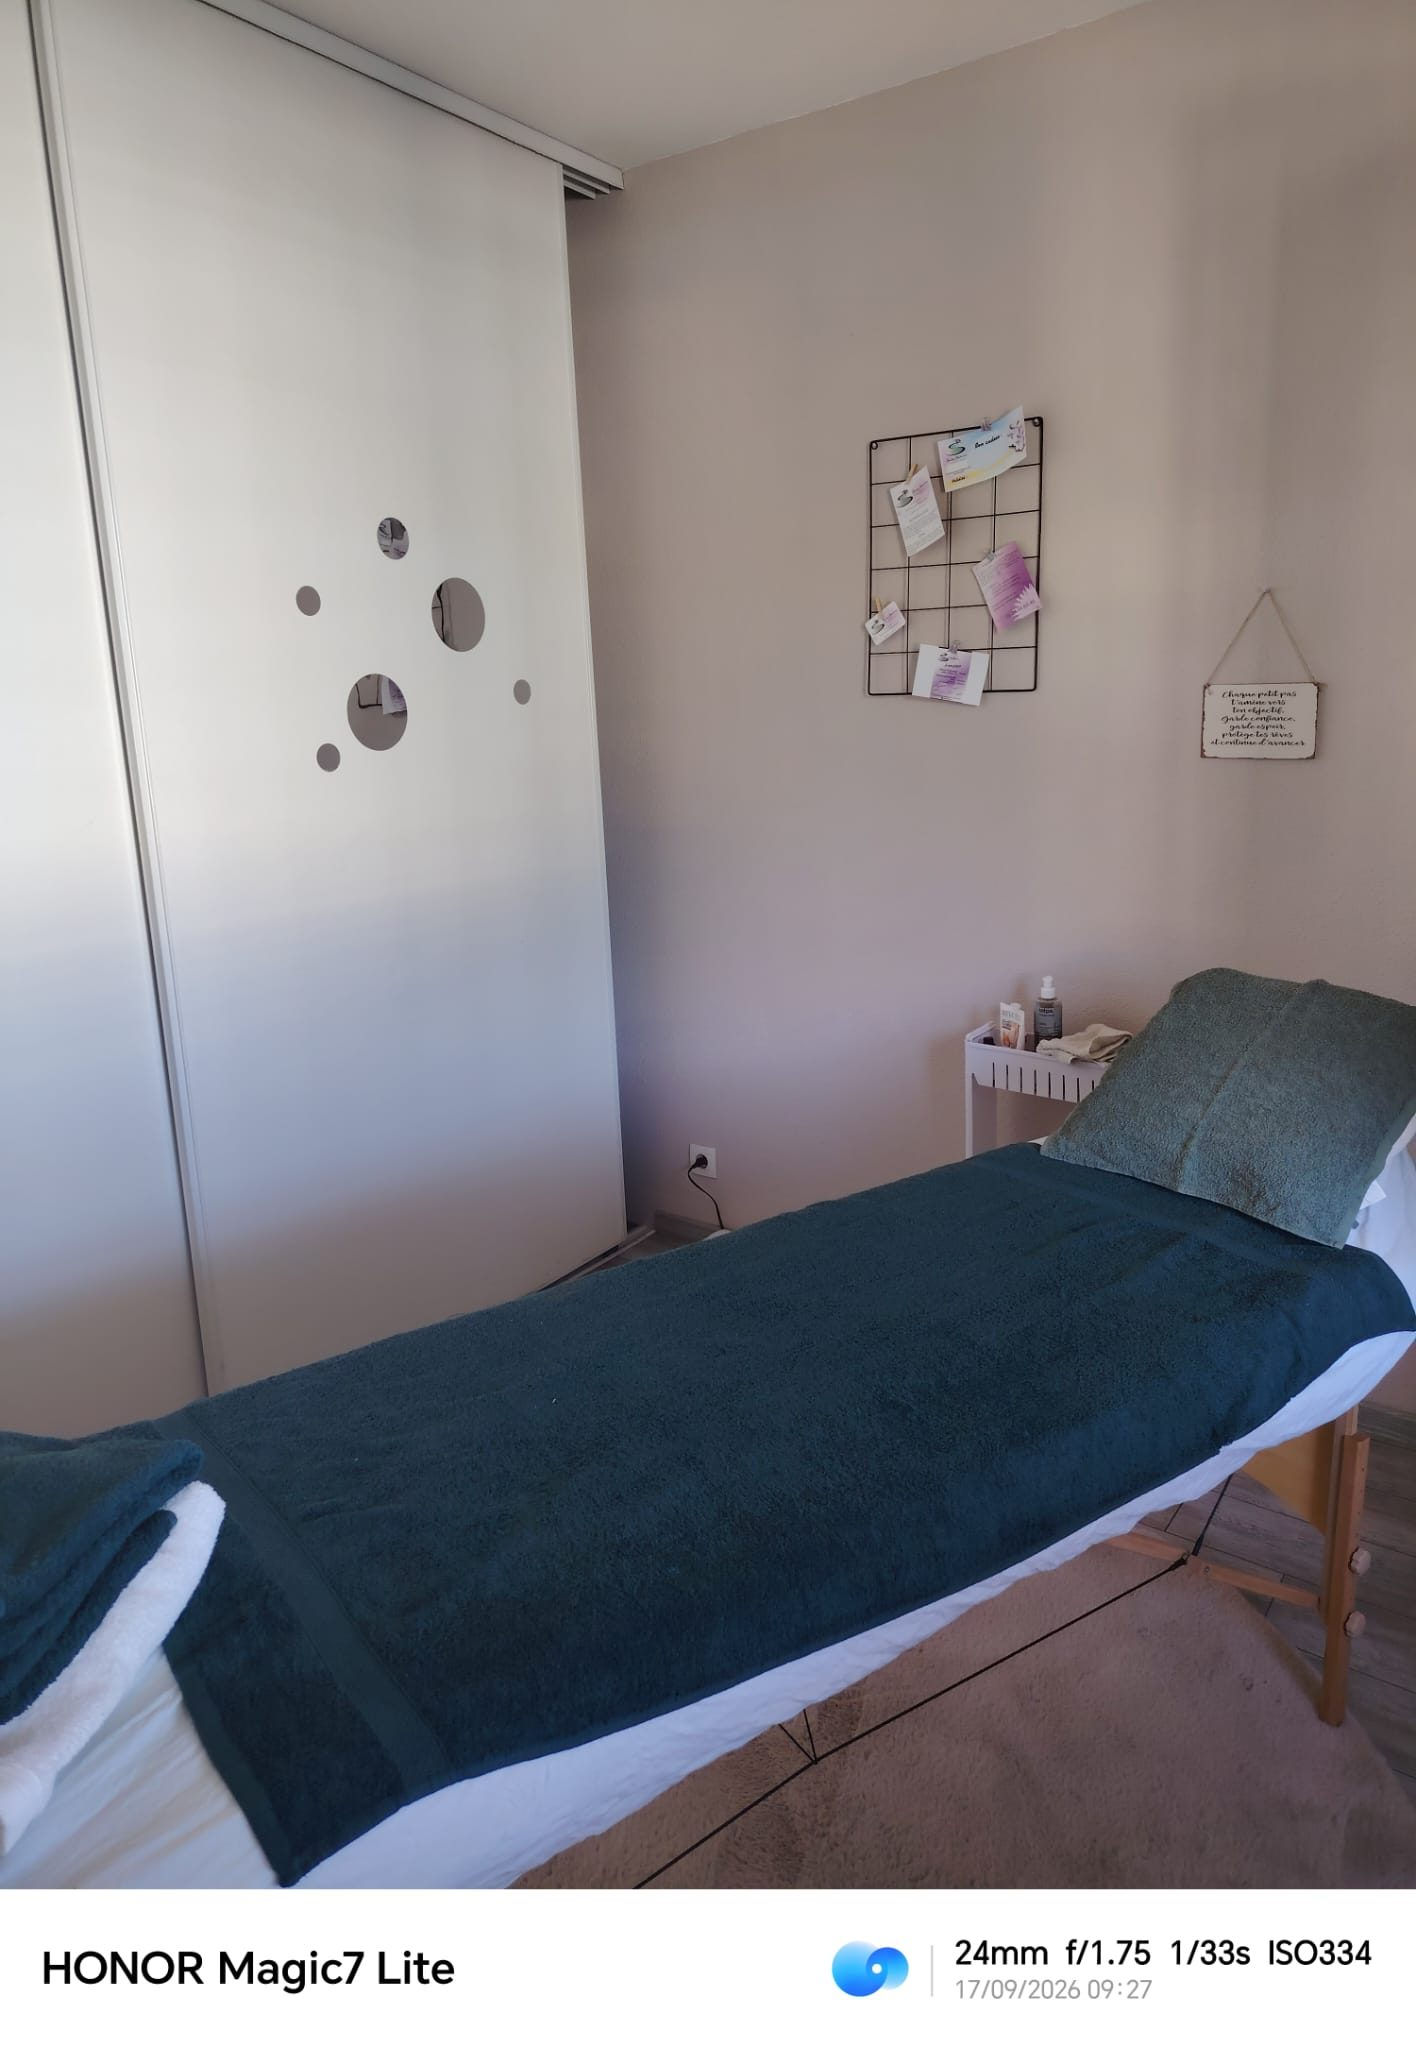
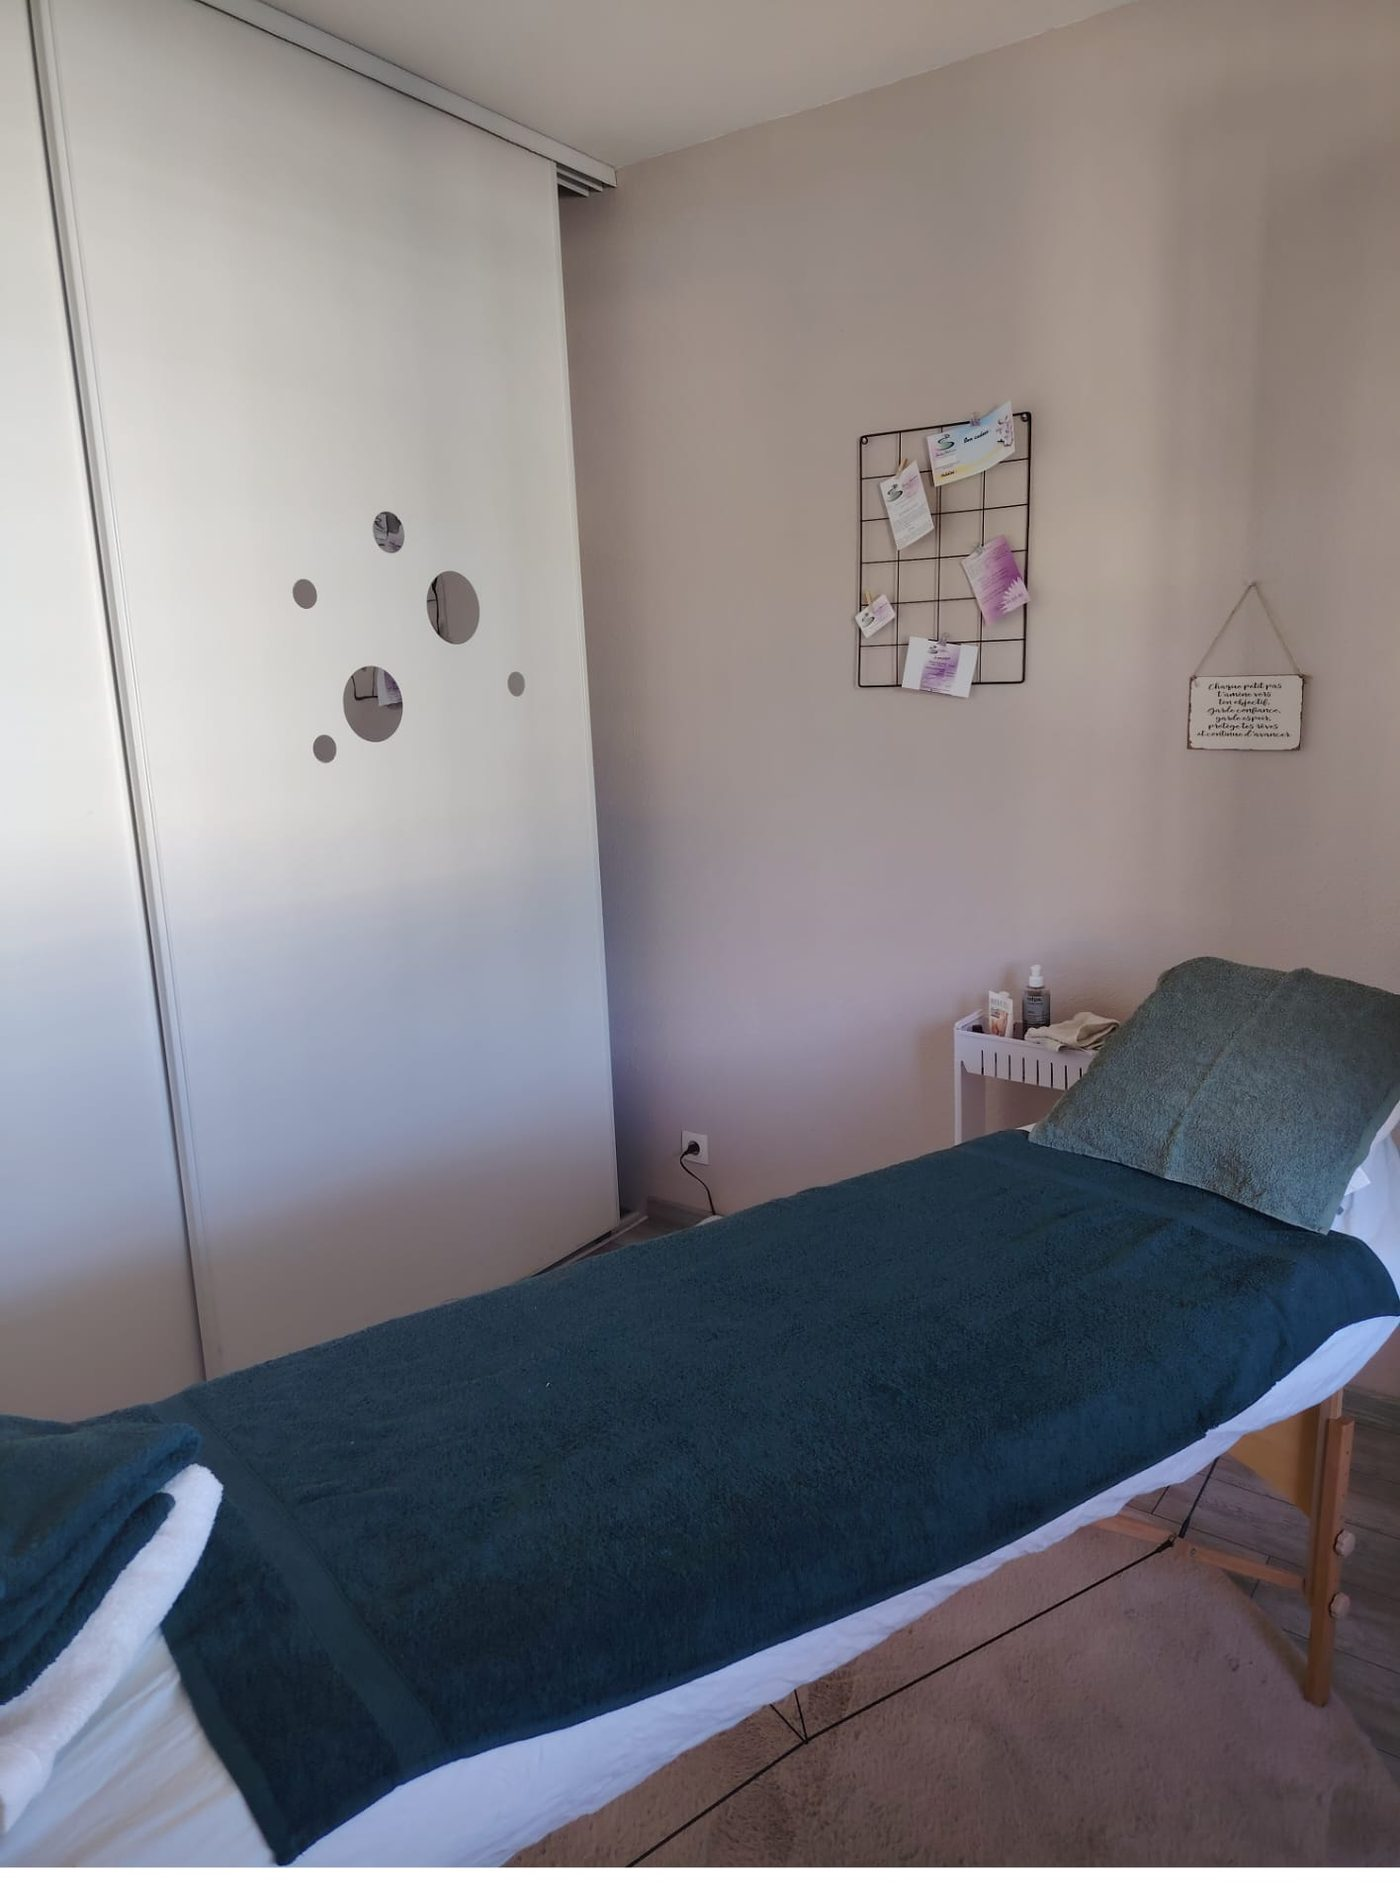
feat: tidy portrait, recover flyer content, optimize mobile
- Re-crop profile photo inside the flyer's ring (no more double ring /
  bleed) + gentle sharpen/contrast
- Remove HONOR camera watermark bar from all cabinet photos
- Add trust strip recovered from flyer (3 engagements) + 'votre bien-etre
  commence aujourd'hui' microcopy
- Mobile: fix nav menu closed-state peek, stack trust strip, de-tilt hero
  image, full-width hero buttons, tighter spacing

diff --git a/styles.css b/styles.css
@@ -136,6 +136,14 @@ h3 { font-size: 1.4rem; }
 .hero-badge strong { display: block; color: var(--purple-deep); font-family: var(--ff-head); font-size: 1.15rem; line-height: 1.1; }
 .hero-badge span { font-size: .72rem; color: var(--ink-soft); }
 
+/* ============ TRUST STRIP ============ */
+.trust { background: var(--bg-alt); border-block: 1px solid var(--line); }
+.trust-inner { display: grid; grid-template-columns: repeat(3, 1fr); gap: 1rem; padding: 1.6rem 0; }
+.trust-item { display: flex; align-items: center; gap: .8rem; justify-content: center; }
+.trust-ic { font-size: 1.7rem; line-height: 1; }
+.trust-item p { margin: 0; font-size: .95rem; color: var(--ink-soft); line-height: 1.35; }
+.trust-item strong { color: var(--ink); font-weight: 700; }
+
 /* ============ SECTIONS ============ */
 .section { padding: clamp(3rem, 7vw, 5.5rem) 0; }
 .section-alt { background: var(--bg-alt); }
@@ -242,6 +250,7 @@ a.contact-item:hover { transform: translateY(-4px); }
 @media (max-width: 900px) {
   .hero-inner { grid-template-columns: 1fr; gap: 2.5rem; }
   .hero-media { max-width: 420px; margin-inline: auto; order: -1; }
+  .hero-media img { rotate: 0deg; height: clamp(300px, 52vh, 460px); }
   .lead { max-width: none; }
   .cards { grid-template-columns: repeat(2, 1fr); }
   .about { grid-template-columns: 1fr; gap: 2rem; text-align: center; }
@@ -257,10 +266,13 @@ a.contact-item:hover { transform: translateY(-4px); }
     position: absolute; top: 100%; right: 0; left: 0;
     flex-direction: column; align-items: stretch; gap: 0;
     background: var(--surface); border-bottom: 1px solid var(--line);
-    padding: .5rem 1.25rem 1.25rem; box-shadow: var(--shadow);
-    max-height: 0; overflow: hidden; transition: max-height .3s ease, padding .3s ease; padding-top: 0;
+    padding: 0 1.25rem; box-shadow: var(--shadow);
+    max-height: 0; overflow: hidden; transition: max-height .3s ease, padding .3s ease;
   }
-  .nav-menu.open { max-height: 420px; padding-top: .5rem; }
+  .nav-menu.open { max-height: 420px; padding: .5rem 1.25rem 1.25rem; }
+  .nav-menu li { border-top: 1px solid var(--line); }
+  .nav-menu li:first-child { border-top: 0; }
+  .nav-menu a { display: block; padding: .55rem 0; }
   .nav-menu li { padding: .3rem 0; }
   .nav-cta { margin-top: .4rem; text-align: center; }
   .nav-toggle[aria-expanded="true"] span:nth-child(1) { transform: translateY(7.5px) rotate(45deg); }
@@ -268,11 +280,22 @@ a.contact-item:hover { transform: translateY(-4px); }
   .nav-toggle[aria-expanded="true"] span:nth-child(3) { transform: translateY(-7.5px) rotate(-45deg); }
   .fab { display: inline-block; }
 }
+@media (max-width: 700px) {
+  .trust-inner { grid-template-columns: 1fr; gap: .5rem; padding: 1.3rem 0; }
+  .trust-item { justify-content: flex-start; max-width: 320px; margin-inline: auto; width: 100%; }
+}
 @media (max-width: 560px) {
   .cards { grid-template-columns: 1fr; }
   .gallery { grid-template-columns: 1fr 1fr; }
-  .gallery img { height: 220px; }
+  .gallery img { height: 200px; }
   .brand-tagline { display: none; }
+  .container { width: min(100% - 2rem, var(--wrap)); }
+  h1 { font-size: clamp(2.1rem, 8.5vw, 2.8rem); }
+  .lead { font-size: 1.05rem; }
+  .hero-actions { flex-direction: column; align-items: stretch; }
+  .hero-actions .btn { width: 100%; }
+  .hero-badge { left: 0; bottom: -14px; padding: .6rem .9rem; }
+  .fab { bottom: 14px; right: 14px; padding: .7rem 1.05rem; font-size: .9rem; }
 }
 
 @media (prefers-reduced-motion: reduce) {

diff --git a/index.html b/index.html
@@ -114,6 +114,24 @@
       </div>
     </section>
 
+    <!-- ============ TRUST STRIP ============ -->
+    <section class="trust" aria-label="Engagements">
+      <div class="container trust-inner">
+        <div class="trust-item">
+          <span class="trust-ic" aria-hidden="true">🌸</span>
+          <p><strong>Bien-être global</strong><br />et personnalisé</p>
+        </div>
+        <div class="trust-item">
+          <span class="trust-ic" aria-hidden="true">💗</span>
+          <p><strong>Écoute &amp; bienveillance</strong><br />et professionnalisme</p>
+        </div>
+        <div class="trust-item">
+          <span class="trust-ic" aria-hidden="true">🍃</span>
+          <p><strong>Un accompagnement</strong><br />adapté à vos besoins</p>
+        </div>
+      </div>
+    </section>
+
     <!-- ============ SERVICES ============ -->
     <section class="section" id="services">
       <div class="container">
@@ -257,7 +275,7 @@
           <a href="tel:+33629846045" class="btn btn-ghost btn-lg btn-ghost-light">
             📞 06 29 84 60 45
           </a>
-          <p class="reserve-note">Un lien vers votre agenda&nbsp;? Facile, en un clic.</p>
+          <p class="reserve-note">Réservez en un clic — votre bien-être commence aujourd'hui ♥</p>
         </div>
       </div>
     </section>
